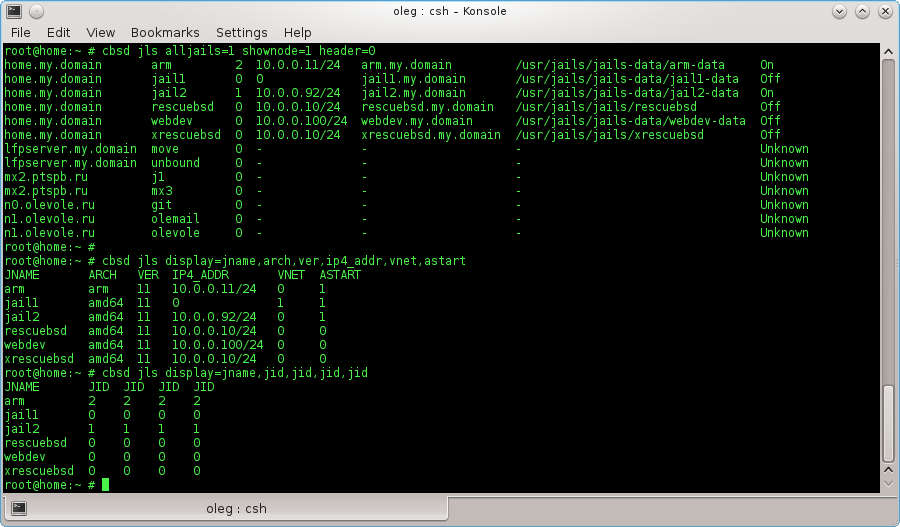
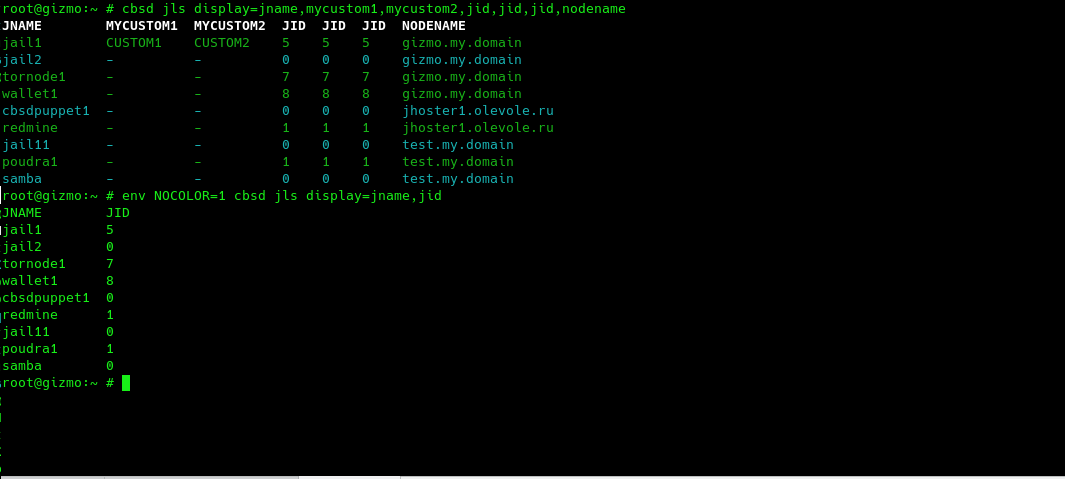
update jls screen

Changed region(s): [[0.0, 0.0, 1.0, 1.0]]

diff --git a/ru/articles/cbsd_k8s_part1.html b/ru/articles/cbsd_k8s_part1.html
@@ -1,0 +1,134 @@
+<!--# include file="/ru/_start.html" -->
+<h1><span>Деплой kubernetes кластера на FreeBSD/bhyve (<strong>CBSD</strong>)</span></h1>
+<h2><a name="k8s_part1_intro">Вступление</a></h2>
+<div class="block">
+<p>Недавно на своей новой работе я с коллегами отпраздновал нестандартную историю успеха - в нашей компании мы полностью избавились от докера (более двухсот контейнеров - немного, не все же).
+Да-да, тогда как этот тренд держится уже десяток лет, процесс де-докеризации принес много радости и облегчения. Хоть и временно ;-)</p>
+<p>Я не буду говорить сейчас о плюсах и минусах докера - напомню лишь общеизвестную истину - нет ничего идеального и не всегда инструмент или 
+реализация того или иного решения является для вас наиболее подходящим. Кроме этого, в сфере IT не существует одного единого верного пути - всегда есть варианты,
+чем наша сфера и увлекательна. В какой-то момент времени внутри компании поняли, что используют докер неправильно и решили это исправить, 
+переведя все бизнес процессы на рельсы микросервисной архитектуры. Для этого, разработчикам приходится учитывать специфику и особенности контейнерного подхода.
+Эти вопросы выходят за рамки статьи, но скажу лишь, что новая концепция и предпринимаемые шаги подразумевают для нас использование контейнеров в еще более крупных 
+масштабах (когда наши приложения будут по-настоящему к этому готовы), в связи с чем остро возник вопрос об оркестрации этого хозяйства.</p>
+<p>Существует достаточно много решений для оркестрации контейнерами, но наиболее популярный (или наиболее известный и разрекламированный, наверное - это кубернетис).
+Поскольку я планирую провести много эксперементов с инсталляциями и конфигурацией k8s, мне потребуется лаборатория, в которой я могу быстро и легким для себя образом разворачивать кластер в любых количествах.
+В своей работе и повседневной жизни, я очень плотно использую две ОС - Linux и FreeBSD. Кубер и докер - это Linux-центричные проекты и на первый вгляд, какого-то полезного участия и помощи
+от FreeBSD здесь ждать не приходится. Как говорится, из мухи можно сделать слона, но летать он уже не будет. Однако на ум приходят две соблазнительные вещи - это очень хорошая интеграция и работа в FreeBSD файловой системы ZFS,
+от которой было бы неплохо использовать механизм снапшотов, COW и надежности. Второе - гипервизор bhyve, поскольку нам все таки нужен загрузчик докеров и кубера в виде Linux ядра. Таким образом, нам необходимо различными 
+способами связать воедино определенное количество действий, большинство из которых связано с запуском и предварительной конфигурацией виртуальных машин. Это характерно как для сервера на базе Linux, так и FreeBSD -
+что будет работать под капотом для запуска виртуальных машин - большой роли и разницы нет. Давайте возьмем FreeBSD!</p>
+<p>В свободное время я являюсь участником <strong>CBSD</strong>, проекта, который одной части конечным пользователям может предоставлять более дружелюбный
+интерфейс по управлению контейнерами и виртуальными машинами на платформе FreeBSD. Вторая часть пользователей знает <strong>CBSD</strong> как фреймворк,
+который благодаря API очень легко встраивать в любые собственные сценарии по автоматическому управлению виртуальной инфраструктурой, отдав большинство
+низкоуровневых операций по работе с ВМ на совесть скриптов CBSD. Таким образом, наша задача сводится к построению некоторо моста между операциями над k8s кластером и
+задами, относящимся к деплою виртуальных машин. Работа заняла у меня около 4 часов и превратилась в рабочий k8s модуль <strong>CBSD</strong>,
+который доступен в паблике, как и все остальное, связанное с проектом <strong>CBSD</strong>.</p>
+<p>Итак, посмотрим что получилось!</p>
+<p><em>Спойлер: если вы предпочитаете смотреть видео, небольше демо на Ютубе: <a target="_blank" href="https://youtu.be/ADBuUCtOF1w">https://youtu.be/ADBuUCtOF1w</a></em></p>
+</div>
+<h2><a name="k8s_part1_at_the_beggining">Что у нас есть</a></h2>
+<div class="block">
+<p>Я преследую цель поднять небольшую локальную лабораторию с рабочим k8s кластером и в моем распоряжении есть сервер со следующими характеристиками:</p>
+<ul>
+	<li>1 жесткий диск объемом 3 Tb, на который и установлена FreeBSD 13-CURRENT ( ZFS-on-root )</li>
+	<li>RAM: 256 GB</li>
+	<li>CPU: Intel(R) Xeon(R) CPU E5-2680 v4 @ 2.40GHz (56 core)</li>
+</ul>
+<p>Те, дефицита в ресурсах нет. Используя cloud-образ Ubuntu 18, я сгенерировал cloud-образ kubernetes, который отличается от Ubuntu образа лишь тем, что в нем было выполнено подключение
+репозитория kubernetes и выполнена команда <strong>apt install kubeadm</strong>, чтобы при разворачивании образа можно было сразу приступать к работе с утилитой kubectl.</p>
+<p>Эксперементальный образ k8s я закачал на зеркала <strong>CBSD</strong> проекта. Запустить виртуальную машину из этого образа вы можете через стандартный диалог CBSD и команду bconstruct-tui:</p>
+<p class="text-center"><img src="/img/k8s_boot1.png" alt="" /></p>
+<p>Сначала нам необходимо выбрать тип гостя - в случае с k8s наш гость - это Linux:</p>
+<p class="text-center"><img src="/img/k8s_boot2.png" alt="" /></p>
+
+<p>Далее, выберем в списке готовых профилей Linux название, содержащее kubernetes - это cloud образ, поэтому ищите его внизу списка:</p>
+
+<p class="text-center"><img src="/img/k8s_boot3.png" alt="" /></p>
+
+<p>Редактируем остальные параметры, если настройки по-умолчанию вас не устраивают:</p>
+<p class="text-center"><img src="/img/k8s_boot4.png" alt="" /></p>
+<p>Мы можем изменить, например, сетевые настройки хелпера cloud-init:</p>
+<p class="text-center"><img src="/img/k8s_boot5.png" alt="" /></p>
+<p>После редактирования параметров, отправляем виртуальную машину создаваться:</p>
+<p class="text-center"><img src="/img/k8s_boot6.png" alt="" /></p>
+
+<p>На выходе мы получаем рабочую виртуальную машину, в который уже установлен kubernetes, но на этом базовые возможности <strong>CBSD</strong> по части
+kubernetes на этом и заканичается - она сфокусирована для других задач.</p>
+
+<p class="text-center"><img src="/img/k8s_boot7.png" alt="" /></p>
+
+<p>Впрочем, это уже хорошо - благодаря cloud-init вам ненужно устанавливать каждый раз ОС используя инсталлятор, 
+а также не требуется каждый раз после установки ОС выполнять установку kubernetes - вам только нужно запустить ВМ из gold-образа.
+Если вы любите в некоторых случаях выполнять ручную работу - 20 секунд запуска виртуальной машины в любой конфигурации - и можете приступать.
+</p>
+
+<p class="text-center"><img src="/img/k8s_boot8.png" alt="" /></p>
+
+<p>Поскольку создавать и настраивать k8s - задача также не из тривиальных (в первую очередь тем, что это большое количество монотонной однообразной обезъяней работы в виде повторения большого количества одинаковых команд), я поместил
+эти шаги в отдельные скрипты, которые получили статус модуля k8s для <strong>CBSD</strong>, все операции которого начинаются с одноименного префикса <strong>k8s</strong>.
+Все команды <strong>CBSD</strong> имеют вывод информации о своих обязательных или не очень аргументах с кратким описанием через аргумент <strong>--help</strong>.
+Модуль предлагает небольшое количество операций, среди которых есть bootstrap, join, конфигурирование и получение токена</p>
+Эти операции вы можете запускать в строгой очередности одну за другим, либо можете скормить все необходимые аргументы за 1 раз - модуль сам разберет когда и что сделать.
+Например, давая команду:
+
+<pre class="brush:bash;ruler:rule;">
+cbsd k8s bootstrap=1 join=1 token=1 setup="master node"
+</pre>
+
+мы просим модуль провестю весь цикл по инициализации одного кластера, с экспортом токена для работы с kubectl используя CLI через удаленный машину:</p>
+
+<p class="text-center"><img src="/img/k8s_boot9.png" alt="" /></p>
+
+<p>Модуль <strong>CBSD</strong> выполняет свою работу в различных местах - параллельно, в некоторых - последовательно.</p>
+<p>Например, каждый сценарий выполняется в параллельном режиме, но прежде чем модуль сможет перейти к следующему пункту, ему необходимо удостоверится,
+что самая последняя или медленная нода закончила настройку и готова к дальнейшему шагу. Таким образом, финальный шаг каждого отдельно взятого сценария -
+ожидание. Например, факт распараллеливания и прогресс внутренних задач мы можем наблюдать в выводе <strong>cbsd taskls</strong>:</p>
+
+<p class="text-center"><img src="/img/k8s_boot11.png" alt="" /></p>
+
+<p>Рано или поздно ( в моем случае - через 20 секунд ) модуль перешел от стадии bootstrap к стадии конфигурирования, когда одной ноде поручается роль master,
+все остальные - становятся worker.
+Цель k8s bootstrap - запустить из gold образа виртуальную машину с kubernetes - то, что выше мы сделали через cbsd bconstruct-tui, запустив одну виртуальную
+машину из диалогового интерфейса. Сейчас же, за 20 секунд мы запустили 10 виртуальных машин и их можно увидеть через стандартный вывод <strong>cbsd bls</strong>:</p>
+
+<p class="text-center"><img src="/img/k8s_boot10.png" alt="" /></p>
+
+<p>Надо сказать, что роль <strong>CBSD</strong> здесь - это не только запуск виртуальных машин и работа с cloud-init, но также автоматический поиск свободных
+имен для новых контейнеров (в данном случае используется маска kube в качестве начала имени контейнера) и поиск и автоматические назначение свободных IP адресов, которые
+система берет из настройки CBSD node ip pool. На скриншоте видно, что IP адреса 10.0.0.XX которые выданы виртуальным машинам, не всегда идут последовательно - некоторые
+из них уже заняты в сети.</p>
+
+<p>Стадия конфигурирования master/worker самая долгая и проходит за 3 минуты:</p>
+<p class="text-center"><img src="/img/k8s_boot12.png" alt="" /></p>
+
+<p>После чего наступает стадия join, отнимающая 42 секунды нашей жизни. И наконец скрипт, экспортировав токен, завершается успехом:</p>
+
+<p class="text-center"><img src="/img/k8s_boot13.png" alt="" /></p>
+
+<p>Поскольку мы экспортировали (token=1) токен для работы с k8s на локальную машину, мы можем работать с кластером непосредственно с FreeBSD хоста.
+Мы можем сразу выполнить команду 'kubectl get nodes' и убедится, что все на месте.</p>
+
+<p class="text-center"><img src="/img/k8s_boot14.png" alt="" /></p>
+
+<p>Итак, кластер готов к работе. Для проверки работоспособности, вы можете применить семпл с официальной документации k8s и запустить в новом кластере ваш первый контейнер:</p>
+<p class="text-center"><img src="/img/k8s_boot15.png" alt="" /></p>
+
+<p>Для удаления есть аргумент destroy=1 ( либо удаляйте стандарной командой cbsd bremove ). Также, вы можете сбросить настройки кластера не уничтожая виртуальные машины ( reset=1 ).
+<strong>Энжой!</strong>
+<p><em>Небольшой подкаст с демо материалами этой статьи на Youtube</em>: <a href target="_blank">https://youtu.be/ADBuUCtOF1w</a></p>
+<br>
+<h2><a name="k8s_part1_whatnext">Выводы и дальнейшие планы</a></h2>
+<p>В условиях энергично развивающейся IT отрасли, крайне важно автоматизировать все возможные операции и получать результат ASAP - цените свое время и нервы и используйте
+эти ограниченные и самые ценные ресурсы на то, чтобы выполнять свои собственные задачи.
+В этой статье был продемонстрировано сотрудничество ряда технологий: FreeBSD. Linux, ZFS, cloud-init, bhyve, CBSD,
+которые призваны сделать одно - поднять готовый к использованию кластер kubernetes любой конфигурации настолько быстро, насколько это возможно.</p>
+<p>Очевидно, что наиболее длительный шаг (configure/setup) здесь также можно оптимизировать, поскольку данный шаг выполняет различные действия, работающие с удаленными 
+ресурсами (wget .yaml конфигураций для calico и т.д) - это можно также включить в cloud образ kubernetes в дальнейшем.</p>
+<p>Также, из планов достаточно интересной кажется идея объединить на счет VXLAN несколько физических серверов с FreeBSD/CBSD, создав единый L2 сегмент для
+всех контейнеров. Использование <strong>p9fs</strong>, <strong>Ceph, NFS или S3 объектного хранилища</strong> здесь также имеет право на существование, для организации
+единого дискового пространства для контейнеров на разных физических нодах</p>. А также, при должной доработке, на базе FreeBSD и ZFS, мы можем получить отказоустойчивый
+масштабируемый кластер кубернетес в виде черного ящика - имеется ввиду не закрытость продукта, а самодостаточный и самостоятельный фреймворк, который не требует
+IT специалиста погружаться в технологии FreeBSD, bhyve и CBSD, а получает универсальный API для контроля и управления K8S кластерами.</p>
+
+<p>Кому интересны FreeBSD/bhyve + kubernetes и есть желание запустить собственный SaaS K8S сервис на своих ресурсах с использованием CBSD - пишите идеи и комментарии.
+Было бы интересно предоставить публике легкий и дешевый способ для этих операций.</p>

diff --git a/en/articles/cbsd_k8s_part1.html b/en/articles/cbsd_k8s_part1.html
@@ -1,0 +1,133 @@
+<!--# include file="/en/_start.html" -->
+<!--# include file="/en/translate.html" -->
+<h1><span>Deploy Kubernetes cluster on FreeBSD/bhyve (<strong>CBSD</strong>)</span></h1>
+<h2><a name="k8s_part1_intro">Introduction</a></h2>
+<div class="block">
+<p>Recently, at my new job, my colleagues and I noted a non-standard success story - in our company we completely got rid of the docker (more than two hundred containers - a little, but there was something).
+Yes! yes! Although this trend has been going on for ten years, the de-dockerization process has brought a lot of joy and relief. Although temporarily ;-)</p>
+<p>I will not talk about the pros and cons of docker - I will only remind the well-known truth - there is nothing perfect,
+and not always the tool or implementation of the solution is most suitable for you. In addition, in the field of IT there is no single right way - there are always options, so our area is fascinating.
+At some point, inside our company, it came to an understanding that the docker is being used incorrectly and brings more problems than it solves them.
+To fix this, the IT department received the task of transferring all business processes to the rails of microservice architecture.
+For this, developers must take into account the specifics and characteristics of the container approach. These questions are beyond the scope of the article, 
+but I can only say that the new concept and the steps taken imply for us the use of containers on an even larger scale (when our applications are really ready for this), 
+in connection with this, the question was raised regarding orchestration by a large number of containers</p>
+<p>There are quite a few solutions for container orchestration, but the most popular (or the most famous and highly advertised, is probably, a <a target="_blank" href="https://kubernetes.io/">Kubernetes</a>)
+Since I plan to conduct many experiments with installing and configuring k8s, I need a laboratory in which I can quickly and easily deploy a cluster in any quantities for myself.
+In my work and everyday life I use two OS very tightly - <a target="_blank" href="https://www.kernel.org/">Linux</a> and <a target="_blank" href="https://www.freebsd.org">FreeBSD OS</a>.
+Kubernetes and docker are Linux-centric projects, and at first glance, you should not expect any useful participation and help from FreeBSD here.
+As the saying goes, an elephant can be made out of a fly, but it will no longer fly. However, two tempting things come to mind - this is very good integration and work in the FreeBSD ZFS file system,
+from which it would be nice to use the snapshot mechanism, COW and reliability.
+And the second is the <a target="_blank" href="http://bhyve.org/">bhyve hypervisor</a>, because we still need the docker and k8s loader in the form of the Linux kernel.
+Thus, we need to connect a certain number of actions in various ways, most of which are related to starting and pre-configuring virtual machines.
+This is typical of both a Linux-based server and FreeBSD. What exactly will work under the hood to run virtual machines does not play a big role. And if so - let's take a FreeBSD here!</p>
+<p>In my free time, I am a member of <strong>CBSD</strong>, a project that can provide end users with a more user-friendly interface for managing containers and virtual machines on the FreeBSD platform.
+Another part of users knows that <strong>CBSD</strong> is a framework that, thanks to the API, <a href="/<!--#echo var="lang" -->/broker_driven_sample_ssi.html">integrates very easily</a> into any of your 
+own scripts to automatically manage the virtual infrastructure, realizing most of the operations at a low level when working with virtual machines.
+Thus, our task is to build some kind of bridge between operations on the k8s cluster and tasks related to deploying virtual machines.
+This work took me about 4 hours and turned into a working k8s CBSD module, which is publicly available (starting with the next CBSD version 12.1.5), like everything else related to the <a target="_blank" href="https://github.com/cbsd/">CBSD project</a>.</p>
+<p>So let's see what we got!</p>
+<p><em>Spoiler: if you prefer to watch the video, a small demo on YouTube (subtitles for English): <a target="_blank" href="https://youtu.be/ADBuUCtOF1w">https://youtu.be/ADBuUCtOF1w</a></em></p>
+</div>
+<h2><a name="k8s_part1_at_the_beggining">What we have</a></h2>
+<div class="block">
+<p>My goal is to create a small local laboratory with a working k8s cluster, and I have a server at my disposal with the following characteristics:</p>
+<ul>
+	<li>1x3 TB hard drive with FreeBSD 13-CURRENT ( ZFS-on-root )</li>
+	<li>RAM: 256 GB</li>
+	<li>CPU: Intel(R) Xeon(R) CPU E5-2680 v4 @ 2.40GHz (56 core)</li>
+</ul>
+<p>In other words, we have no shortage of resources. Using the Ubuntu 18 cloud image, I generated a kubernetes cloud image, which differs from the Ubuntu image only in that it is connected to the kubernetes repository,
+and the <strong>apt install kubeadm</strong> command was executed, so when deploying the image, you can immediately start working with the kubectl utility.</p>
+<p>I uploaded the experimental k8s image to the mirrors of the <strong>CBSD</strong> project. You can start the virtual machine from this image through the standard <strong>CBSD</strong> dialog and the bconstruct-tui command:
+<p class="text-center"><img src="/img/k8s_boot1.png" alt="" /></p>
+<p>First of all, we need to choose the type of guest - in the case of k8s, our guest is Linux:</p>
+<p class="text-center"><img src="/img/k8s_boot2.png" alt="" /></p>
+<p>Next, select the name containing kubernetes, in the list of ready-made Linux profiles - this is a cloud image, so look for it at the bottom of the list:</p>
+<p class="text-center"><img src="/img/k8s_boot3.png" alt="" /></p>
+<p>Edit the remaining parameters, if necessary:</p>
+<p class="text-center"><img src="/img/k8s_boot4.png" alt="" /></p>
+<p>For example, we can change the network settings for the cloud-init helper:</p>
+<p class="text-center"><img src="/img/k8s_boot5.png" alt="" /></p>
+<p>After editing the parameters, we create a virtual machine:</p>
+<p class="text-center"><img src="/img/k8s_boot6.png" alt="" /></p>
+
+<p>As a result, we got a working virtual machine in which kubernetes is already installed, but this is where the main features of <strong>CBSD</strong> for kubernetes end - it focuses on other tasks.</p>
+
+<p class="text-center"><img src="/img/k8s_boot7.png" alt="" /></p>
+
+<p>However, this is already good - thanks to cloud-init, you do not need to install the OS every time using the installer,
+and you do not need to install kubernetes every time after installing the OS - you just need to start the VM from the gold image.
+If you like to do manual work in some cases - 20 seconds of starting the virtual machine - and you can continue.</p>
+
+<p class="text-center"><img src="/img/k8s_boot8.png" alt="" /></p>
+
+<p>Since creating and configuring k8s is also not a trivial task (primarily because it is a lot of monotonous monkey work in the form of repeating a large number of identical commands),
+I placed these commands in separate scripts and these scripts have received the status k8s module for CBSD, where all operations of which begin with a prefix with the same name <strong>k8s</strong>.
+All <strong>CBSD</strong> commands display information about their required or not-so arguments with a brief description through the <strong>--help</strong> argument.
+The module offers a small number of operations, including bootstrap, join, configuring and receiving a Kubernetes token.
+You can start these operations in strict order one after another, or you can specify all the necessary arguments one time - the module itself will figure out when and what to do.
+For example, when you execute this command:
+
+<pre class="brush:bash;ruler:rule;">
+cbsd k8s bootstrap=1 join=1 token=1 setup="master node"
+</pre>
+
+we ask the module to complete the entire cycle of initializing one cluster, with the export of the token for working with kubectl using the CLI through a remote machine:</p>
+
+<p class="text-center"><img src="/img/k8s_boot9.png" alt="" /></p>
+
+<p>The <strong>CBSD</strong> module performs its work in various places - in parallel, in some - sequentially.</p>
+<p>For example, each script is executed in parallel, but before the module can proceed to the next step, 
+it needs to make sure that the most recent or slowest node has completed the configuration and is ready for the next step. 
+Thus, the final step of each individual scenario is expectation. 
+For example, we can observe the fact of parallelization and the progress of internal tasks in the output of <strong>cbsd taskls</strong>:</p>
+<p class="text-center"><img src="/img/k8s_boot11.png" alt="" /></p>
+
+<p>Sooner or later (in my case - within 20 seconds), the module switched from the initial boot to the configuration phase,
+when one node is assigned the 'master' role, all the others become 'worker. 
+The purpose of k8s bootstrap is to start a virtual machine with kubernetes from a golden image - 
+which we did above through <strong>cbsd bconstruct-tui</strong> by starting one virtual machine from the dialog interface. 
+Thus, within 20 seconds we started 10 virtual machines, and now we can observe them through the output of <strong>cbsd bls</strong>:
+
+<p class="text-center"><img src="/img/k8s_boot10.png" alt="" /></p>
+
+<p>I must say that the role of <strong>CBSD</strong> here is not only launching virtual machines and working with cloud-init,
+but also automatically searching for free names for new containers (in this case, the kube mask is used as the beginning of the container name) 
+and searching and automatically assigning free IPs addresses that the system takes from the <strong>CBSD</strong> node ip pool settings.
+The screenshot shows that the IP addresses 10.0.0.XX that are issued to virtual machines do not always go sequentially - some of them are already on the network.</p>
+
+<p>The configuration stage for master/worker is the longest and takes 3 minutes:</p>
+<p class="text-center"><img src="/img/k8s_boot12.png" alt="" /></p>
+
+<p>Then comes the join stage, which takes 42 seconds of our life. Finally, the script, exporting the token, succeeds:</p>
+
+<p class="text-center"><img src="/img/k8s_boot13.png" alt="" /></p>
+
+<p>Since we exported (token=1) the token for working with k8s to the local machine, 
+we can work with the cluster directly from the FreeBSD host.
+We can immediately execute the 'kubectl get nodes' command and make sure everything is in place.</p>
+
+<p class="text-center"><img src="/img/k8s_boot14.png" alt="" /></p>
+
+<p>So, the cluster is ready to go. To test, you can apply the sample from the official k8s documentation and run your first container in a new cluster:</p>
+<p class="text-center"><img src="/img/k8s_boot15.png" alt="" /></p>
+
+<p>To delete cluster, there is an destroy=1 argument (either delete with the standard <strong>cbsd bremove</strong> command).
+Also, you can reset cluster settings without destroying virtual machines (reset=1). <strong>Enjoy!</strong></p>
+
+<p><em>A small podcast with demos of this article on Youtube:</em> <a target="_blank" href="https://youtu.be/ADBuUCtOF1w">https://youtu.be/ADBuUCtOF1w</a> </p>
+<br>
+<h2><a name="k8s_part1_whatnext">Conclusions and Future Plans</a></h2>
+<p>In the context of a dynamically developing IT industry, it is extremely important to automate all possible operations and get the result as soon as possible 
+- to value your time and nerves. And use these limited and most valuable resources to accomplish your own tasks. 
+This article demonstrates the collaboration of a number of technologies: FreeBSD. Linux, ZFS, cloud-init, bhyve, CBSD which were used for one thing - 
+to raise a ready-to-use Kubernetes cluster of any configuration as quickly as possible.</p>
+<p>Obviously, the longest step (configure/setup) can also be optimized here, since this step performs various actions that work with remote resources (wget .yaml configurations for calico, etc.) 
+- this can also be included in the cloud image of kubernetes in the future.</p>
+<p>Also, it seems like an interesting idea to be able to combine several physical servers with FreeBSD/CBSD via VXLAN, creating a single L2 segment for all containers.
+Using the <strong>p9fs</strong>, <strong>Ceph, NFS or S3 object storage</strong> here also has the right to exist for organizing a single disk space for containers on different physical nodes.</p>
+Also, with proper refinement, we can get a FreeBSD and ZFS-based, some fault tolerance and scalable Kubernetes cluster in the form of a black box, where black box - does not mean 'closed'.
+Here, we mean as a result a framework that does not require an IT specialist to immerse in FreeBSD, bhyve and CBSD technologies, but we get a universal API for controlling and managing K8S clusters, as a final product.</p>
+<p>Anyone who is interested in FreeBSD / bhyve + kubernetes and wants to run their own SaaS K8S service on their resources using CBSD - write ideas and comments.
+It would be interesting to provide the public with a simple and cheap way for these operations.</p>

diff --git a/ru/12.1.x/wf_jls.html b/ru/12.1.x/wf_jls.html
@@ -1,22 +1,27 @@
 	<h1><span>Список клеток</span></h1>
-	
 	<h2><a name="jls_cmd">Команда jls</a></h2>
 	<div class="block">
 		<pre class="brush:bash;ruler:true;">
 			% cbsd jls
 		</pre>
 		<strong>Описание</strong>:
-		<p>Выводит список клеток на локальной ноде или всех добавленных нодах. Через аргумент <strong>display</strong> можно указать конкретные поля для выборки данных. Если <strong>display</strong> не указан, используется значение, заданное в файле <em>$workdir/etc/defaults/jls.conf</em>, которое вы можете изменить на свое усмотрение через <em>$workdir/etc/jls.conf</em></p>
-				<p>Все возможные параметры для выборок описаны в файле <em>$workdir/share/jail-arg</em></p>
+		<p>Выводит список окружений на локальной ноде или всех добавленных нодах. Вы можете регулировать выводимые поля через аргумент <strong>display</strong>.
+		Если <strong>display</strong> не указан, используется значение, заданное в файле <em>$workdir/etc/defaults/jls.conf</em>, которое вы можете изменить на свое усмотрение через <em>$workdir/etc/jls.conf</em>.
+		Для скрытия заголовка, используйте аргумент header=0.</p>
+		<p>Все возможные параметры для выборок описаны в файле <em>$workdir/share/jail-arg</em></p>
+		<p>Помимо базовых <strong>CBSD</strong> значений, вы можете добавлять собственные поля и значения для вывода при команде jls. Подробнее об этом:</p>
 		<ul>
-			<li><strong>JID</strong>&nbsp;— Jail ID</li>
-			<li><strong>JNAME</strong>&nbsp;— имя jail</li>
-			<li><strong>IP4_ADDR</strong>&nbsp;— список привязанных к Jail IP адресов (IPv4,IPv6)</li>
-			<li><strong>HOST_HOSTNAME</strong>&nbsp;— FQDN jail</li>
-			<li><strong>PATH</strong>&nbsp;— корень клетки</li>
-			<li><strong>STATUS</strong>&nbsp;— On (запущена), Off (остановлена), Unregister (клетка имеет свой rc.conf (старый формат) но отсутствует в SQL базе)</li>
+			<table class="images">
+			<tr><td class="bg-gray"><strong>JID</strong></td><td>Jail ID</td></tr>
+			<tr><td class="bg-gray"><strong>JNAME</strong></td><td>имя окружения</td></tr>
+			<tr><td class="bg-gray"><strong>IP4_ADDR</strong></td><td>список привязанных к Jail IP адресов (IPv4,IPv6)</td></tr>
+			<tr><td class="bg-gray"><strong>HOST_HOSTNAME</strong></td><td>FQDN окружения</td></tr>
+			<tr><td class="bg-gray"><strong>PATH</strong></td><td>корень файловой системы окружения</td></tr>
+			<tr><td class="bg-gray"><strong>STATUS</strong></td><td>On (запущена), Off (остановлена), Unregister (разрегистрирована из SQL базы)</td></tr>
+			</table>
 		</ul>
-		<p>Прим: клетки в статусе Unregister могут быть внесены в SQL через команду <strong>cbsd jregister</strong>. Также, они автоматически конвертируются при отработке <em>Upgrading</em> стадии команды <strong>cbsd initenv</strong>. В случае, если к локальному серверу добавлены RSA/DSA ключи удаленных нод, можно вывести все клетки в ферме через</p> 
+		<p>Для <strong>vnet</strong>-based окружений с виртуальным стеком, вам также может быть полезно поле <strong>REAL_IP4</strong> для вывода фактических IP адресов внутри окружения</p>
+		<p>Прим: окружения  в статусе Unregister могут быть зарегистрированы через команду <strong>cbsd jregister</strong>. В случае, если к локальному серверу добавлены удаленные ноды, можно вывести все клетки в ферме через:</p>
 		<pre class="brush:bash;ruler:true;">
 			% cbsd jls alljails=1
 		</pre>
@@ -25,11 +30,11 @@
 			% cbsd jls alljails=1 shownode=1
 		</pre>
 		<p>для вывода имени ноды, где размещается данная клетка.</p>
-		<p><strong>Пример</strong>:</p>
+		<p><strong>Другие примеры</strong>:</p>
 		<pre class="brush:bash;ruler:true;">
-			% cbsd jls
+			% cbsd jls display=jname,ip4_addr,vnet,real_ip4,astart
+			% cbsd jls header=0 display=jname,mycustom1,mycustom2,status
 		</pre>
 		<p class="text-center"><img src="/img/jls1.png" alt="" /></p>
-		<p>Вывод кастомизированных данных (Внимание, прочерки в полях может означать, что версия <strong>CBSD</strong> на удаленной ноде более старая, соответственно, SQL запрос в ее базу не находит актуальных записей).</p>
 		<p class="text-center"><img src="/img/jls2.png" alt="" /></p>
 	</div>

diff --git a/ru/articles.html b/ru/articles.html
@@ -25,6 +25,7 @@
 			<li><a href="/<!--#echo var="lang" -->/articles/cbsd_puppet_jail_images.html">Создание <strong>CBSD</strong> образов с настроенными сервисами с помощью Puppet</a></li>
 			<li><a href="/<!--#echo var="lang" -->/articles/cbsd_with_grafana.html">Экспорт и отображение jail и bhyve метрик с <strong>CBSD</strong>, Grafana и Prometheus</a></li>
 			<li><a href="/<!--#echo var="lang" -->/articles/cbsd_with_dfs.html">Использование <strong>CBSD</strong> и DFS (Distributed File System)</a></li>
+			<li><a href="/<!--#echo var="lang" -->/articles/cbsd_k8s_part1.html">Deploying Kubernetes on FreeBSD/bhyve (CBSD)</a></li>
 
 <!-- 			<li><a href="/ru/articles/cbsdcloud.html">CBSD и XCloud</a> (работа cbsd с облаками Amazon/GCloud, CDN) -->
 <!-- 			<li><a href="/ru/articles/cbsdwks.html">CBSD и общий Desktop jail</a> (пример использования общей KDE4 клетки для плавающего Desktop-окружения) -->

diff --git a/en/articles.html b/en/articles.html
@@ -8,6 +8,7 @@
 			<li><a href="/<!--#echo var="lang" -->/articles/cbsd_puppet_jail_images.html">Creating <strong>CBSD</strong> images with Puppet</a></li>
 			<li><a href="/<!--#echo var="lang" -->/articles/cbsd_with_grafana.html">Using CBSD RACCT with Prometheus and Grafana</a></li>
 			<li><a href="/<!--#echo var="lang" -->/articles/cbsd_with_dfs.html">Using <strong>CBSD</strong> with DFS (Distributed File System)</a></li>
+			<li><a href="/<!--#echo var="lang" -->/articles/cbsd_k8s_part1.html">Deploying Kubernetes on FreeBSD/bhyve (CBSD)</a></li>
 		</ul>
 	</div>
 	<h2><a name="cbsd">About CBSD on the net</a></h2>
